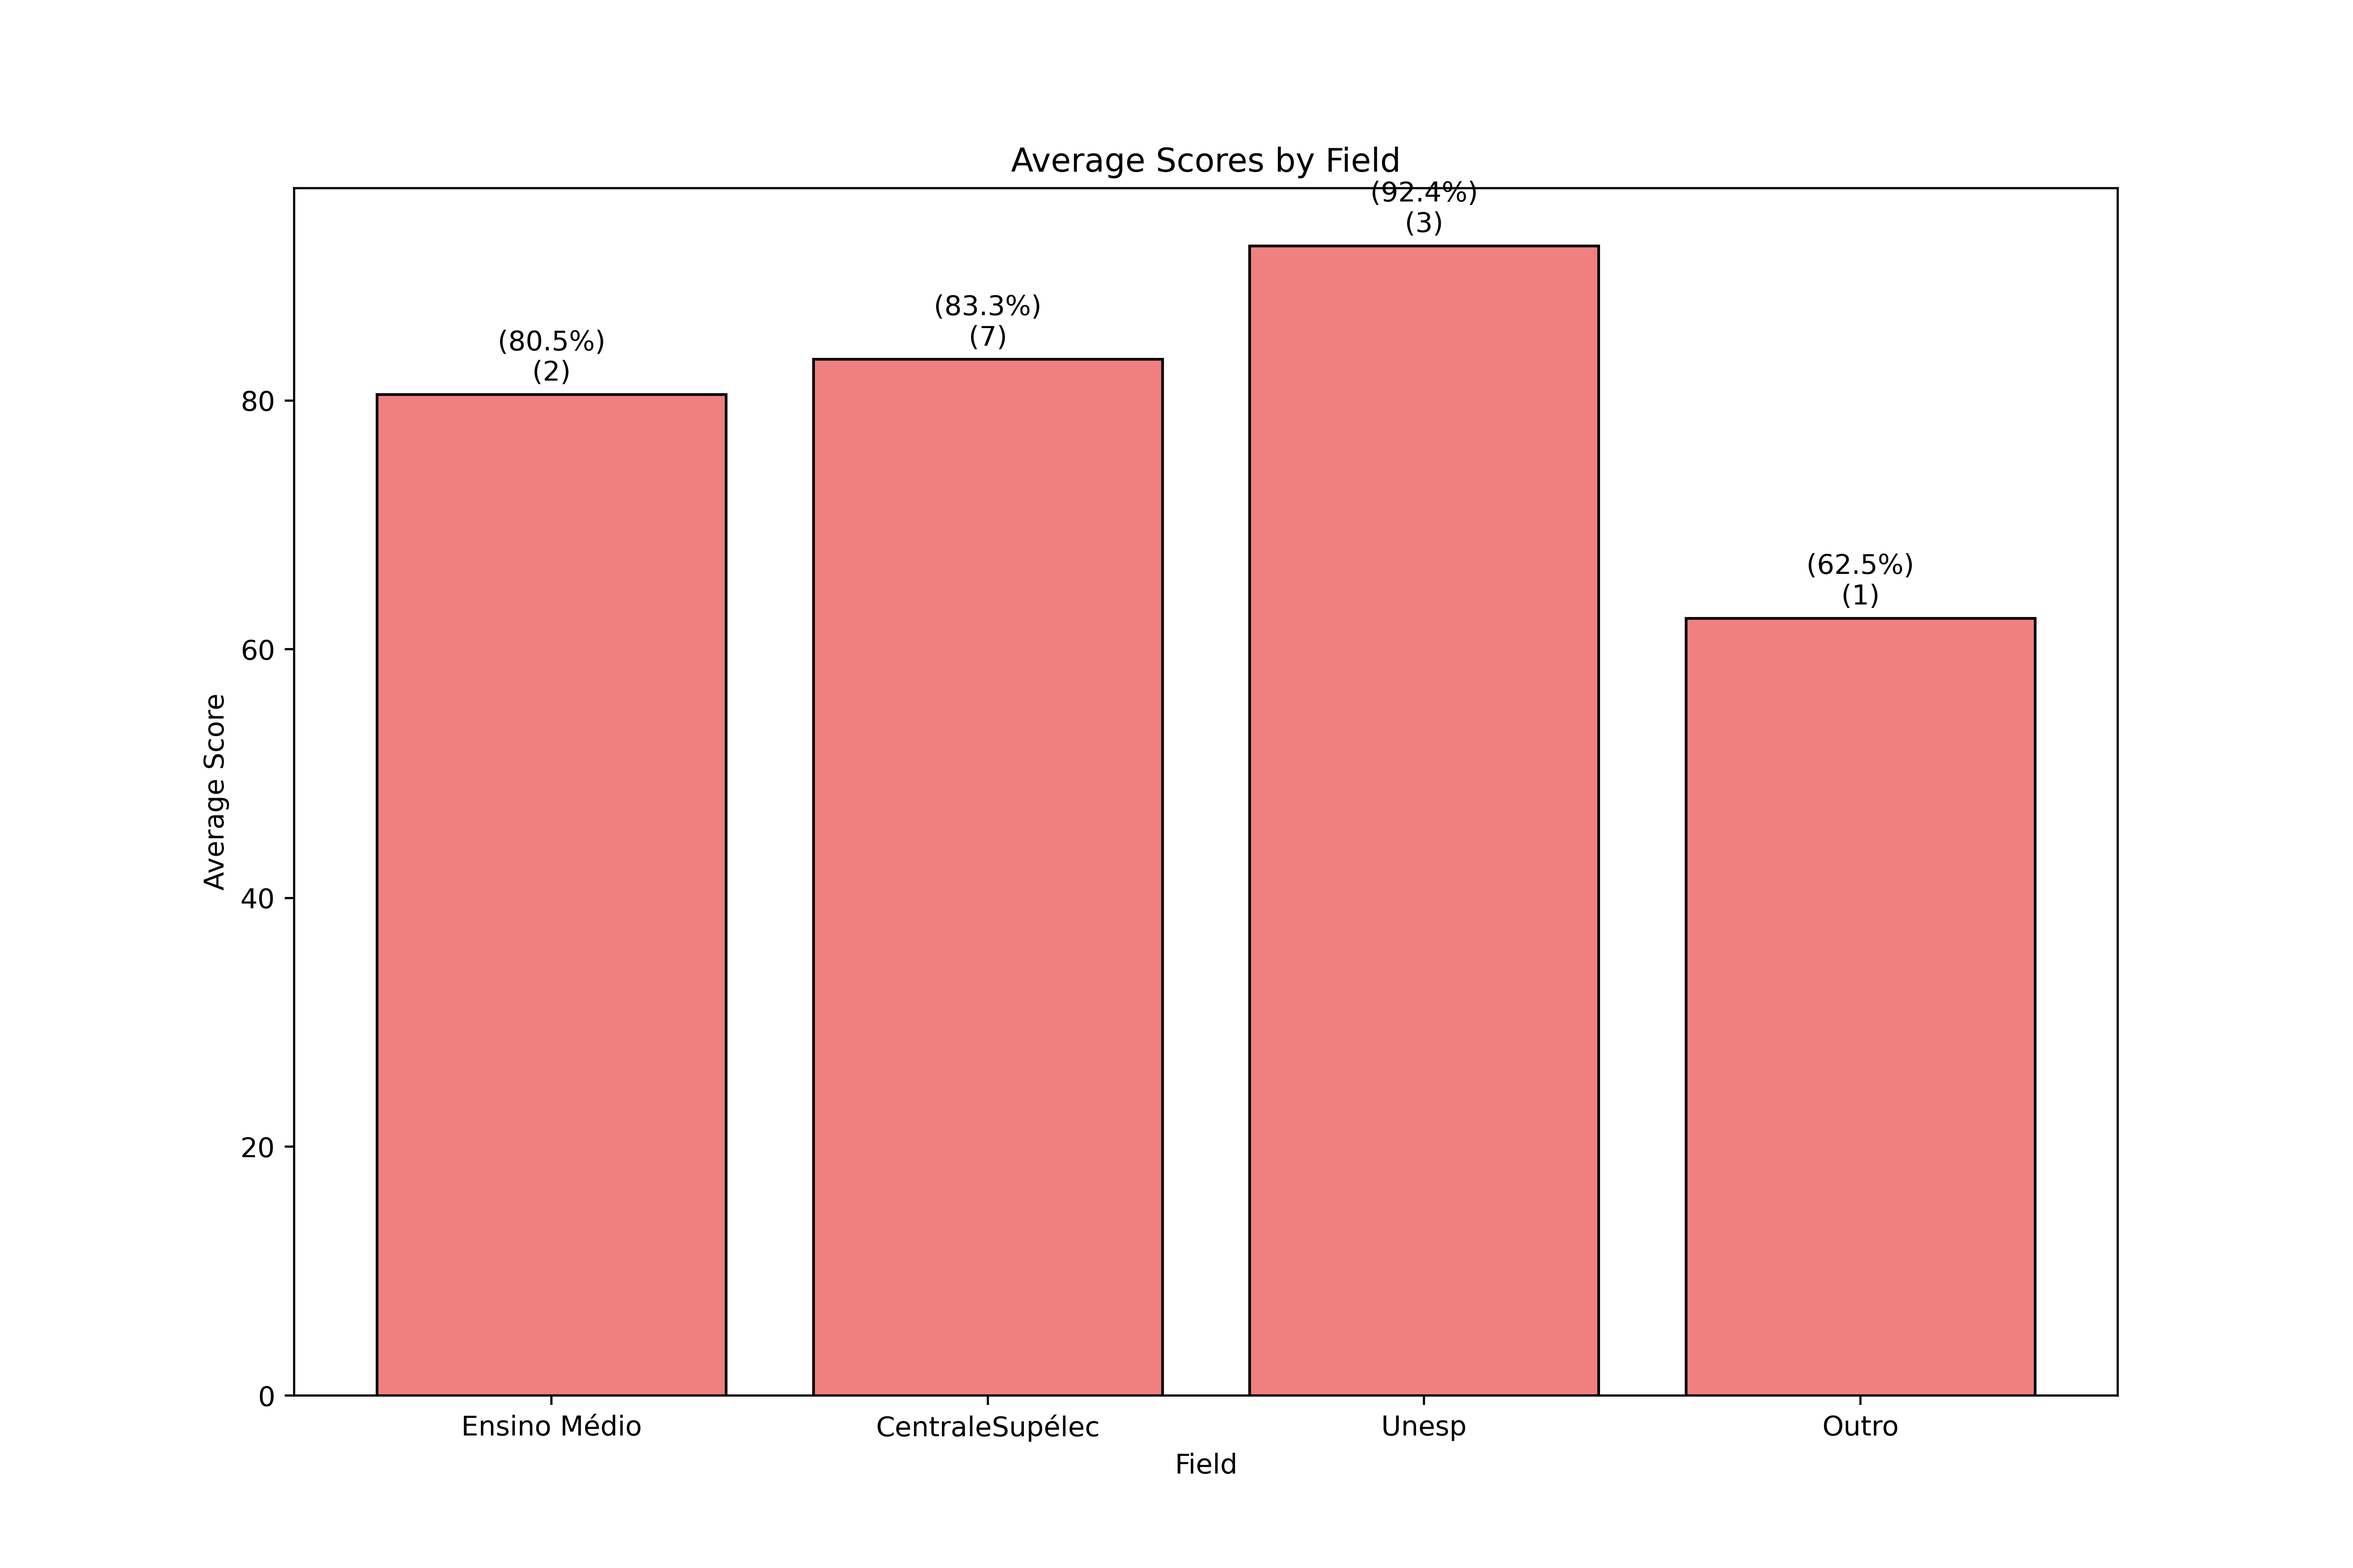
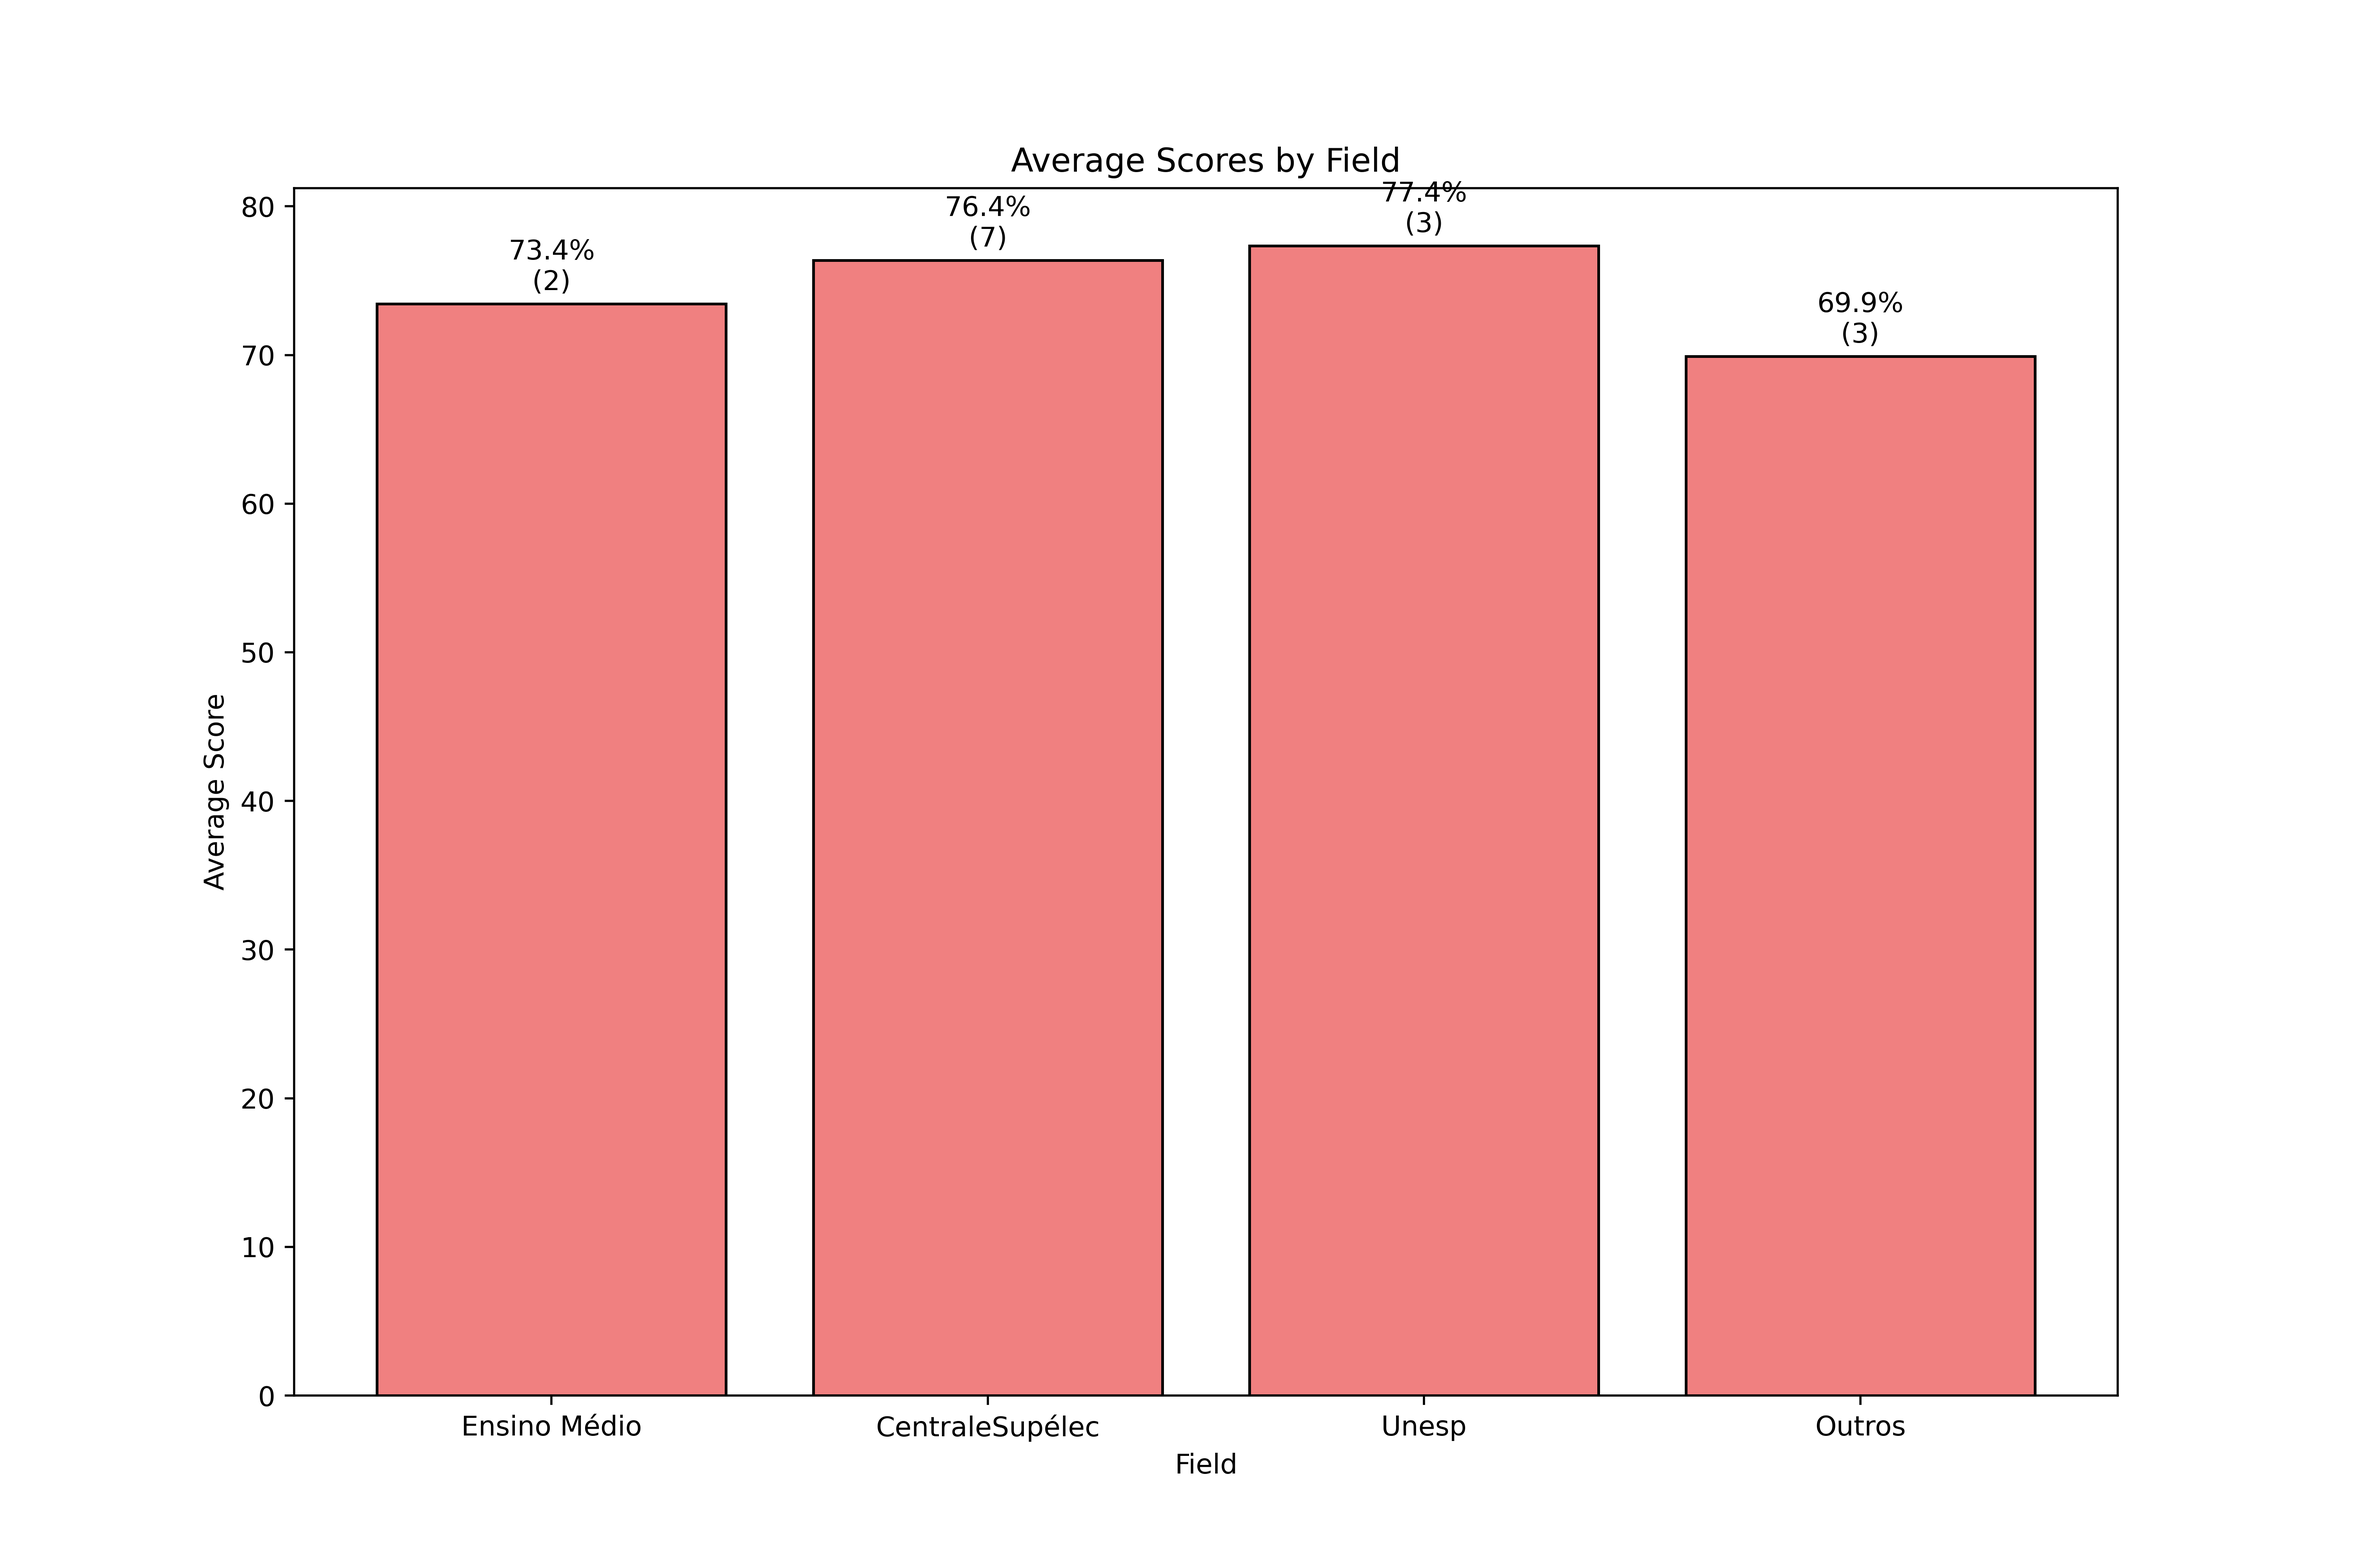
using 2 scale factors and adding final data

diff --git a/src/utils/calculate/weighted_spearman_correlation.py b/src/utils/calculate/weighted_spearman_correlation.py
@@ -5,7 +5,8 @@ from scipy.stats import rankdata
 def weighted_spearman_correlation(list1: List[int],
                                     list2: List[int],
                                     weights: List[float],
-                                    scale_factor: float = 3) -> float:
+                                    linear_scale_factor: float = 2.5,
+                                    exponencial_scale_factor: float = 2.0) -> float:
     """
     Calculate the weighted Spearman rank-order correlation coefficient between two lists.
 
@@ -13,8 +14,10 @@ def weighted_spearman_correlation(list1: List[int],
     - list1 (list): First ranking vector.
     - list2 (list): Second ranking vector.
     - weights (numpy.ndarray): Array of weights for each position in the vectors.
-    - scale_factor (float): Factor to scale the numerator of the correlation calculation. 
-                            Default is 3.
+    - linear_scale_factor (float): Factor to scale the numerator of the correlation calculation. 
+                                   Default is 2.5.
+    - exponencial_scale_factor (float): Factor to scale the numerator of the correlation calculation. 
+                                        Default is 2.0.
 
     Returns:
     - correlation (float): Weighted Spearman rank-order correlation coefficient.
@@ -37,8 +40,8 @@ def weighted_spearman_correlation(list1: List[int],
     weighted_sum_d_squared = np.sum(weights * d ** 2)
     
     # Calculate the correlation coefficient
-    numerator = 6 * weighted_sum_d_squared * scale_factor
+    numerator = 6 * weighted_sum_d_squared * linear_scale_factor
     denominator = n * (n ** 2 - 1)
     
-    correlation = 1 - (numerator / denominator)
+    correlation = 1 - (numerator / denominator)  ** (1 / exponencial_scale_factor)
     return correlation

diff --git a/src/utils/plot/plot_average_scores_by_field.py b/src/utils/plot/plot_average_scores_by_field.py
@@ -38,7 +38,7 @@ def plot_average_scores_by_field(scores: List[Dict],
     # Add annotations to bars
     for bar, count, avg in zip(bars, response_counts, avg_scores):
         height = bar.get_height()
-        ax.annotate(f'({avg:.1f}%)\n({count})',
+        ax.annotate(f'{avg:.1f}%\n({count})',
                     xy=(bar.get_x() + bar.get_width() / 2, height),
                     xytext=(0, 3),
                     textcoords="offset points",

diff --git a/src/utils/plot/plot_scores.py b/src/utils/plot/plot_scores.py
@@ -34,7 +34,7 @@ def plot_scores(scores: List[Dict],
     bars = ax.barh(y_pos, scores, align='center', color='#6BAED6')
     
     ax.set_yticks(y_pos)
-    ax.set_yticklabels([f"{names[i]}\n({fields[i]})" for i in range(len(scores))], fontsize=12)
+    ax.set_yticklabels([f"{names[i]}" for i in range(len(scores))], fontsize=12)
     ax.invert_yaxis()
     ax.set_xlabel('Scores (%)', fontsize=14)
     ax.set_title('Top Scores', fontsize=16)

diff --git a/README.md b/README.md
@@ -22,8 +22,8 @@ The Weighted Spearman's Rank Correlation is defined as:
 
 - **Weights:** The correlation calculation incorporates weights (`w_i`) assigned to each position in the vectors. These weights reflect the importance of different ranks in the correlation calculation.
   
-- **Scale Factor:** A `scale_factor` is applied to adjust the numerator of the correlation calculation. This factor influences the final correlation value, allowing for customization based on specific needs. The default value is set to 3.
-  
+- **Scale Factor:** A `linear_scale_factor` is applied to adjust the numerator of the correlation calculation. This factor influences the final correlation value, allowing for customization based on specific needs. The default value is set to 2.5. In the same way, an `exponencial_scale_factor` is also applied to further adjust the numerator of the correlation calculation. The default value is set to 2.0.
+
 - **Weight Distribution:** The weights are designed to emphasize positions at the beginning and end of the vectors more than those in the middle. This distribution ensures that ranks at these critical positions contribute more significantly to the correlation score.
 
 ## Features
